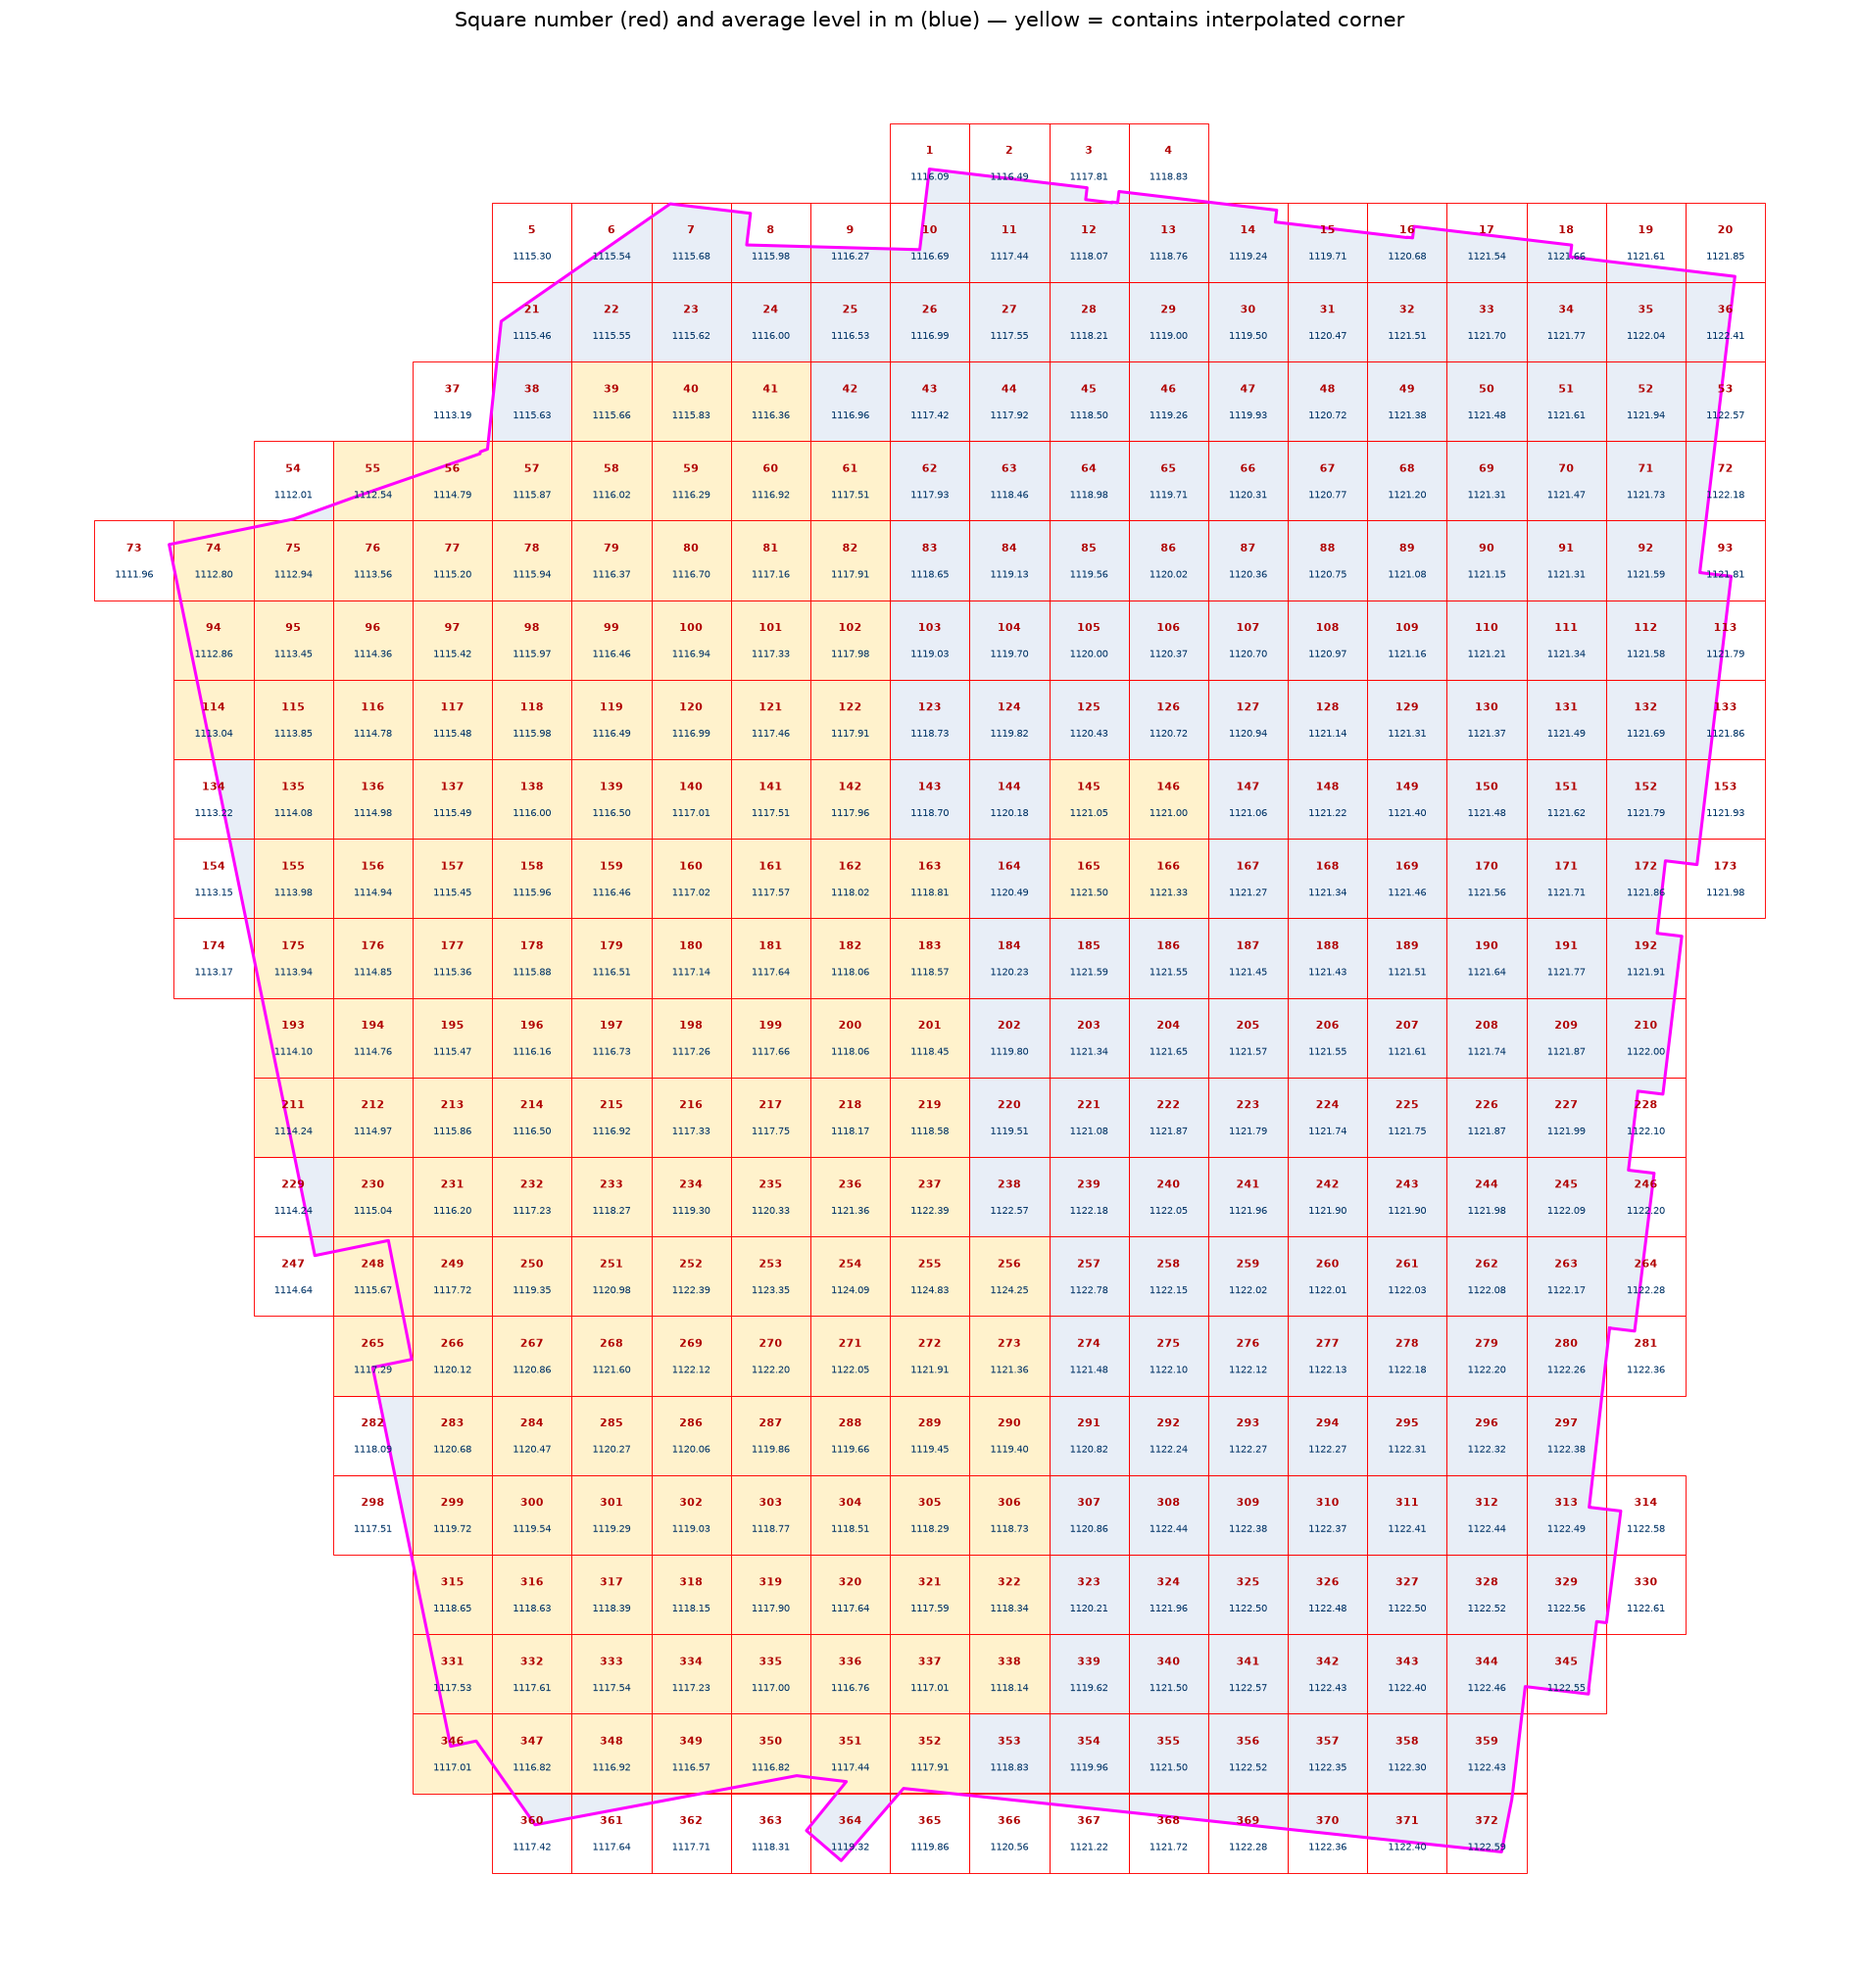
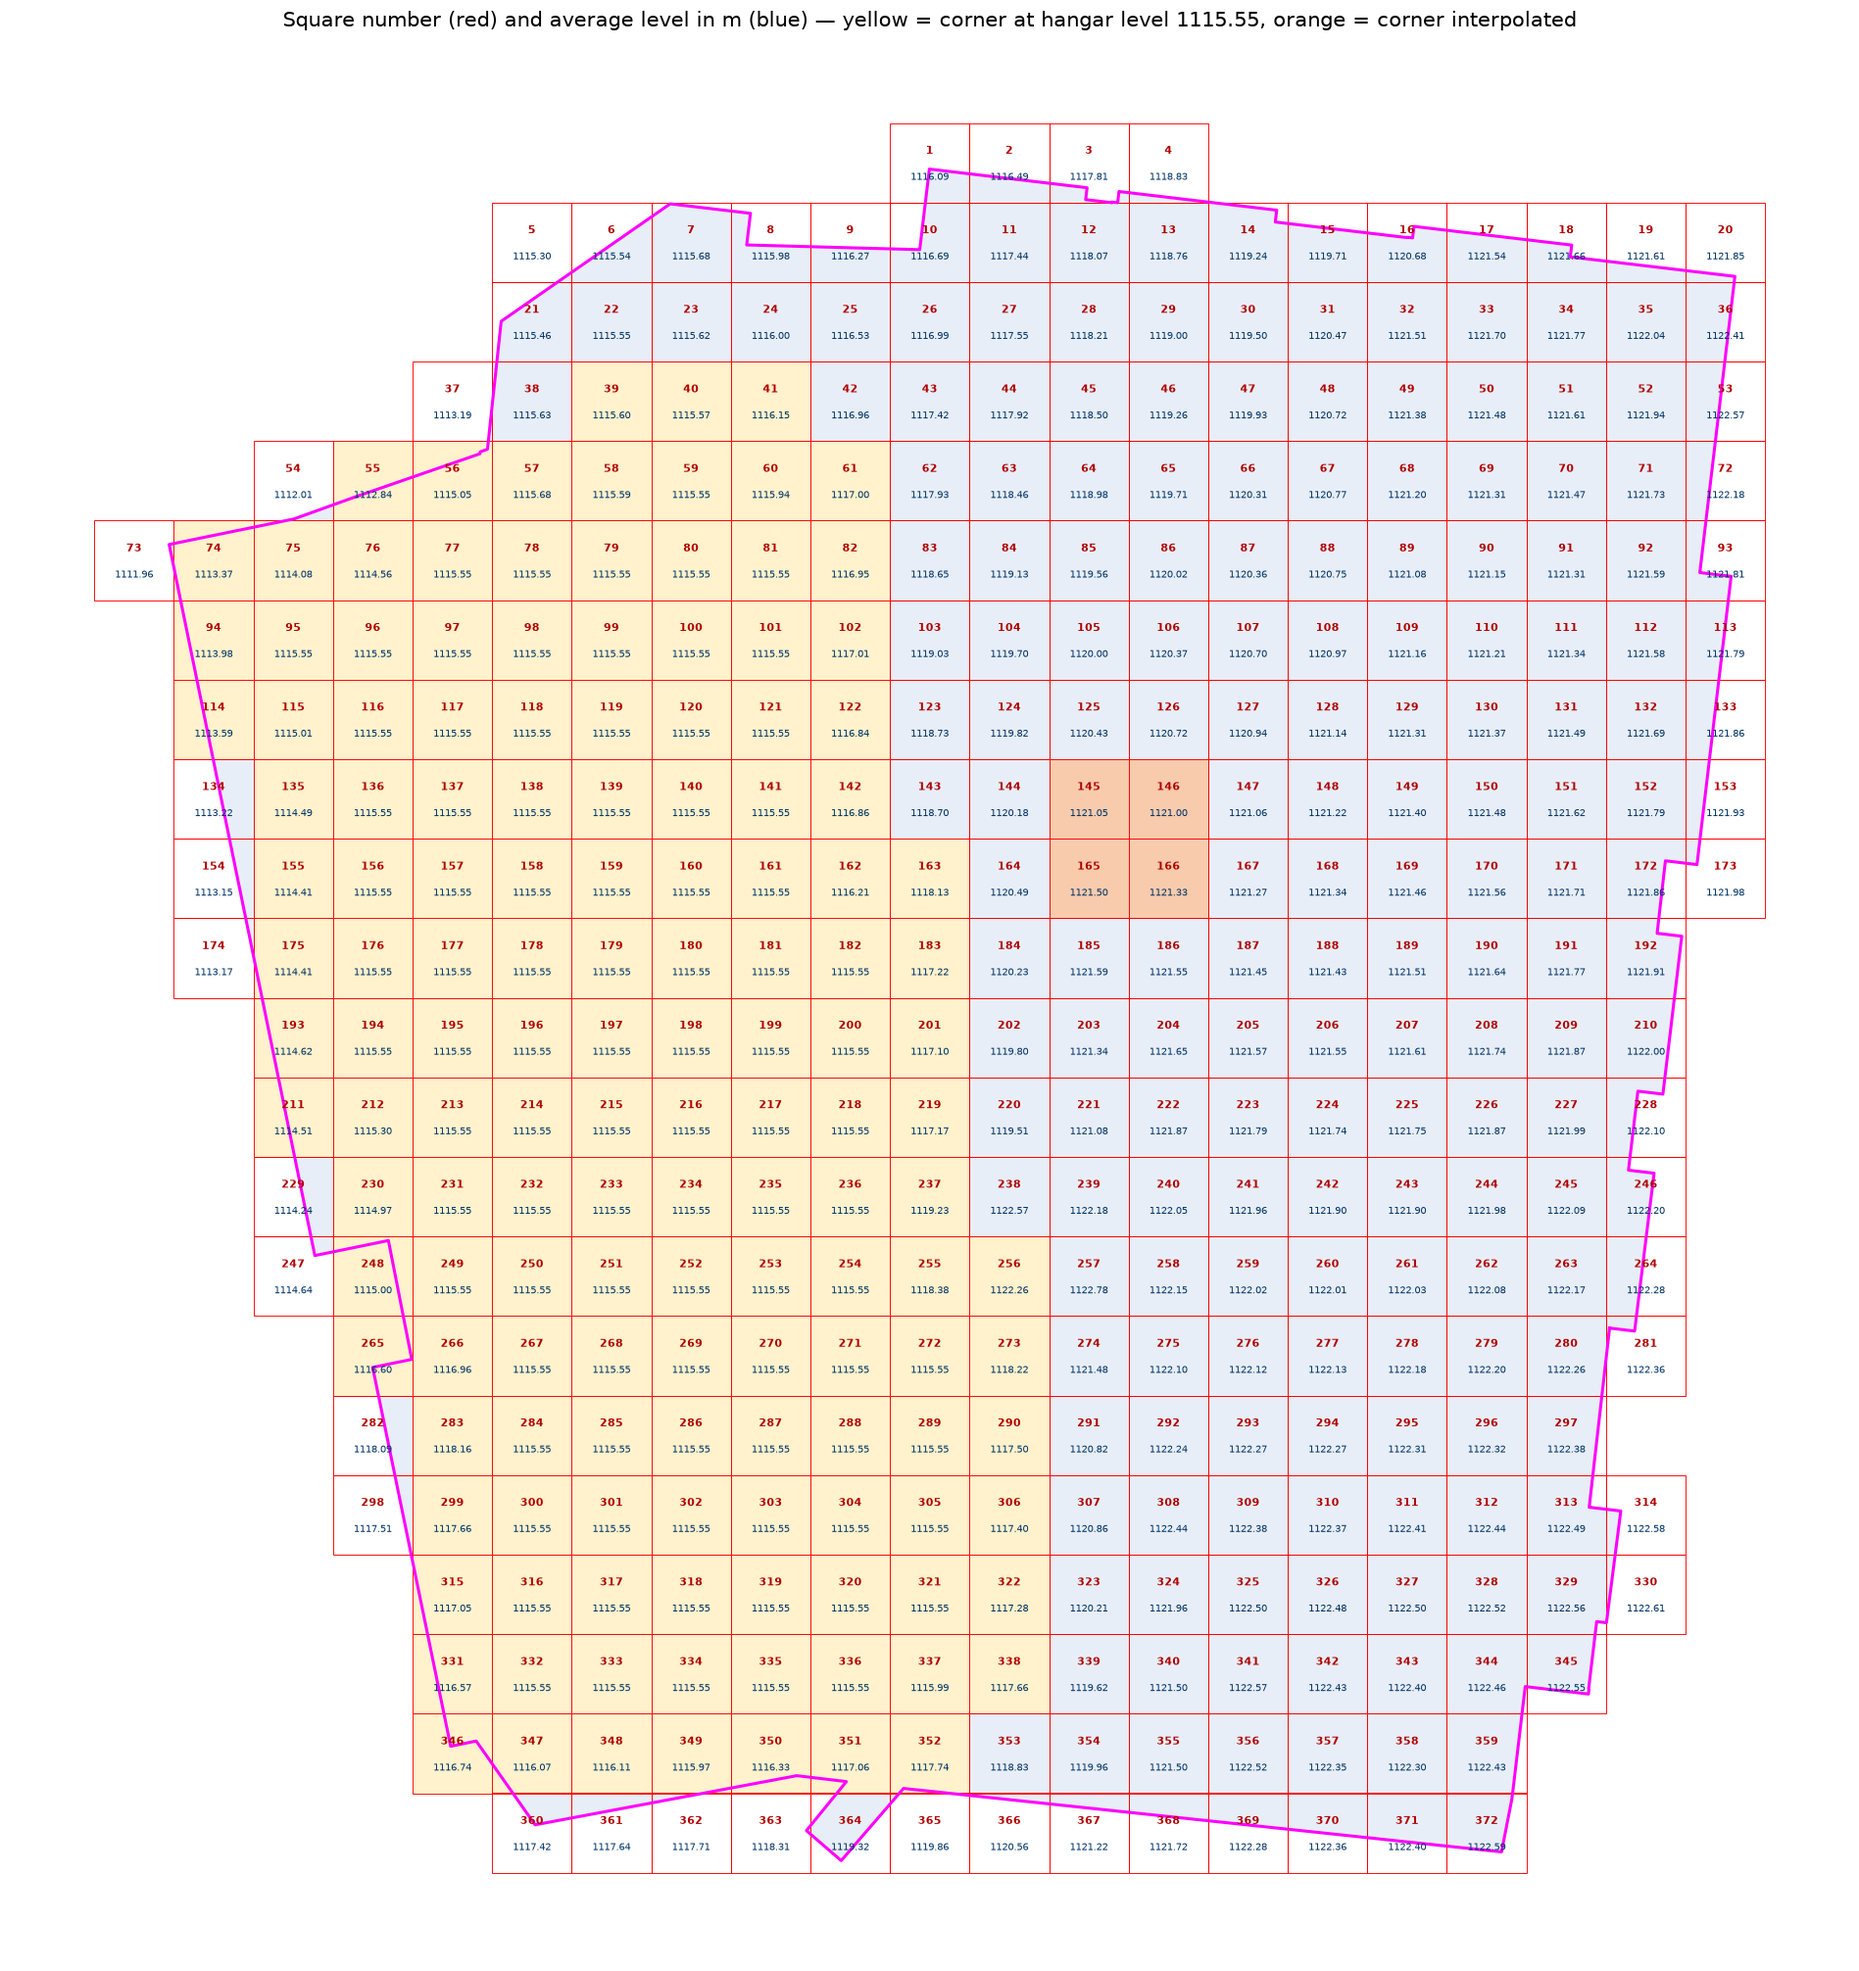
Use hangar level 1115.55 for unlabeled grid points in the hangar area
Grid points in the unlabeled block under the hangar now take 1115.55
instead of a TIN interpolation; the single isolated unlabeled point
elsewhere is still interpolated and marked separately.

Claude-Session: https://claude.ai/code/session_017e4N5joefabz8rqJc3HWS5

diff --git a/compute_levels.py b/compute_levels.py
@@ -4,7 +4,9 @@ Reads HATCHED_AREA.dxf:
   - grid levels: MTEXT "EL:xxxx.xx" on layer C-TOPO-TEXT (Z = exact level,
     grid point = centre of the small X marker, 0.2427 m left of the text)
   - hatched area: outer boundary of the white SOLID hatch on layer 0
-  - TIN nodes (V-NODE) used only to fill grid points that have no EL label
+  - grid points with no EL label in the hangar area (the large unlabeled block
+    under the "hangar" text) take the hangar level HANGAR_LEVEL
+  - any other unlabeled grid point is interpolated from the TIN nodes (V-NODE)
 Square average = mean of its 4 corner levels.
 Numbering: top row to bottom row, left to right.
 """
@@ -17,6 +19,7 @@ import matplotlib; matplotlib.use("Agg")
 import matplotlib.pyplot as plt
 
 STEP, TEXT_OFFSET = 3.0, 0.2427
+HANGAR_LEVEL = 1115.55
 doc = ezdxf.readfile("HATCHED_AREA.dxf"); msp = doc.modelspace()
 
 labels = {}
@@ -37,10 +40,32 @@ tin += [(x, y, z) for (x, y), z in labels.items()]
 tin = np.array(tin)
 interp = LinearNDInterpolator(tin[:, :2], tin[:, 2])
 
+# hangar area = largest 4-connected block of unlabeled grid points inside the label extent
+I_MAX = max(i for i, _ in grid); J_MAX = max(j for _, j in grid)
+unlabeled = {(i, j) for i in range(I_MAX + 1) for j in range(J_MAX + 1) if (i, j) not in grid
+             and any((a, j) in grid for a in range(i)) and any((a, j) in grid for a in range(i + 1, I_MAX + 1))
+             and any((i, b) in grid for b in range(j)) and any((i, b) in grid for b in range(j + 1, J_MAX + 1))}
+hangar, seen = set(), set()
+for start in unlabeled:
+    if start in seen:
+        continue
+    block, todo = set(), [start]
+    while todo:
+        c = todo.pop()
+        if c in seen or c not in unlabeled:
+            continue
+        seen.add(c); block.add(c)
+        todo += [(c[0] + 1, c[1]), (c[0] - 1, c[1]), (c[0], c[1] + 1), (c[0], c[1] - 1)]
+    if len(block) > len(hangar):
+        hangar = block
+
 def level(i, j):
+    """Return (level, source) with source 'EL', 'HANGAR' or 'TIN'."""
     if (i, j) in grid:
-        return grid[(i, j)], False
-    return float(interp(X0 + i * STEP, Y0 + j * STEP)), True
+        return grid[(i, j)], "EL"
+    if (i, j) in hangar:
+        return HANGAR_LEVEL, "HANGAR"
+    return float(interp(X0 + i * STEP, Y0 + j * STEP)), "TIN"
 
 xs = [p[0] for p in area_poly.exterior.coords]; ys = [p[1] for p in area_poly.exterior.coords]
 i_rng = range(int((min(xs) - X0) // STEP), int((max(xs) - X0) // STEP) + 1)
@@ -56,31 +81,33 @@ for j in j_rng:
         corners = [(i, j + 1), (i + 1, j + 1), (i + 1, j), (i, j)]  # TL TR BR BL
         lv = [level(*c) for c in corners]
         rows.append(dict(no=len(rows) + 1, i=i, j=j, x=x, y=y, area=a,
-                         h=[v for v, _ in lv], interp=sum(f for _, f in lv),
+                         h=[v for v, _ in lv], hangar=sum(f == "HANGAR" for _, f in lv),
+                         interp=sum(f == "TIN" for _, f in lv),
                          avg=sum(v for v, _ in lv) / 4))
 
 # ---- Excel
 wb = openpyxl.Workbook(); ws = wb.active; ws.title = "Average levels"
 hdr = ["Square No.", "Avg level (m)", "Top-left", "Top-right", "Bottom-right", "Bottom-left",
-       "Area inside hatch (m²)", "Corners interpolated", "X min", "Y min"]
+       "Area inside hatch (m²)", "Corners at hangar level", "Corners interpolated (TIN)", "X min", "Y min"]
 ws.append(hdr)
 for c in ws[1]:
     c.font = Font(bold=True, color="FFFFFF"); c.fill = PatternFill("solid", fgColor="305496")
     c.alignment = Alignment(horizontal="center", wrap_text=True)
-yellow = PatternFill("solid", fgColor="FFF2CC")
+yellow = PatternFill("solid", fgColor="FFF2CC"); orange = PatternFill("solid", fgColor="F8CBAD")
 for r in rows:
     ws.append([r["no"], round(r["avg"], 3), *[round(v, 2) for v in r["h"]], round(r["area"], 2),
-               r["interp"], round(r["x"], 3), round(r["y"], 3)])
-    if r["interp"]:
-        for c in ws[ws.max_row]: c.fill = yellow
+               r["hangar"], r["interp"], round(r["x"], 3), round(r["y"], 3)])
+    if r["hangar"] or r["interp"]:
+        for c in ws[ws.max_row]: c.fill = orange if r["interp"] else yellow
 n = len(rows) + 1
 ws.append([])
 ws.append(["Squares", len(rows)])
 ws.append(["Total area (m²)", f"=SUM(G2:G{n})"])
 ws.append(["Simple mean of averages", f"=ROUND(AVERAGE(B2:B{n}),3)"])
 ws.append(["Area-weighted mean level", f"=ROUND(SUMPRODUCT(B2:B{n},G2:G{n})/SUM(G2:G{n}),3)"])
-ws.append(["Yellow rows: one or more corners had no EL label and were interpolated from the survey TIN."])
-for col, w in zip("ABCDEFGHIJ", [11, 13, 11, 11, 13, 12, 14, 12, 14, 14]):
+ws.append([f"Yellow rows: one or more corners inside the hangar area, taken as {HANGAR_LEVEL}."])
+ws.append(["Orange rows: one corner had no EL label and was interpolated from the survey TIN."])
+for col, w in zip("ABCDEFGHIJK", [11, 13, 11, 11, 13, 12, 14, 12, 13, 14, 14]):
     ws.column_dimensions[col].width = w
 ws.freeze_panes = "A2"
 wb.save("average_levels.xlsx")
@@ -90,15 +117,16 @@ fig, ax = plt.subplots(figsize=(22, 24), dpi=110)
 ax.fill(*area_poly.exterior.xy, color="#e8eef7", zorder=0)
 ax.plot(*area_poly.exterior.xy, color="magenta", lw=2, zorder=3)
 for r in rows:
-    ax.add_patch(plt.Rectangle((r["x"], r["y"]), STEP, STEP, fill=bool(r["interp"]),
-                               fc="#fff2cc", ec="red", lw=0.6, zorder=1))
+    ax.add_patch(plt.Rectangle((r["x"], r["y"]), STEP, STEP, fill=bool(r["hangar"] or r["interp"]),
+                               fc="#f8cbad" if r["interp"] else "#fff2cc", ec="red", lw=0.6, zorder=1))
     cx, cy = r["x"] + STEP / 2, r["y"] + STEP / 2
     ax.text(cx, cy + 0.45, str(r["no"]), ha="center", va="center", fontsize=7.5, weight="bold", color="#b00000")
     ax.text(cx, cy - 0.55, f'{r["avg"]:.2f}', ha="center", va="center", fontsize=6.5, color="#003366")
 ax.set_aspect("equal"); ax.axis("off")
-ax.set_title("Square number (red) and average level in m (blue) — yellow = contains interpolated corner", fontsize=14)
+ax.set_title("Square number (red) and average level in m (blue) — yellow = corner at hangar level 1115.55, orange = corner interpolated", fontsize=14)
 fig.savefig("average_levels.png", bbox_inches="tight"); plt.close(fig)
 
 a = np.array([r["avg"] for r in rows]); w = np.array([r["area"] for r in rows])
 print(f"squares={len(rows)} area={w.sum():.1f} min={a.min():.2f} max={a.max():.2f} "
-      f"weighted mean={np.average(a, weights=w):.3f} with interpolated={sum(1 for r in rows if r['interp'])}")
+      f"weighted mean={np.average(a, weights=w):.3f} hangar squares={sum(1 for r in rows if r['hangar'])} TIN squares={sum(1 for r in rows if r['interp'])} "
+      f"hangar points={len(hangar)}")
